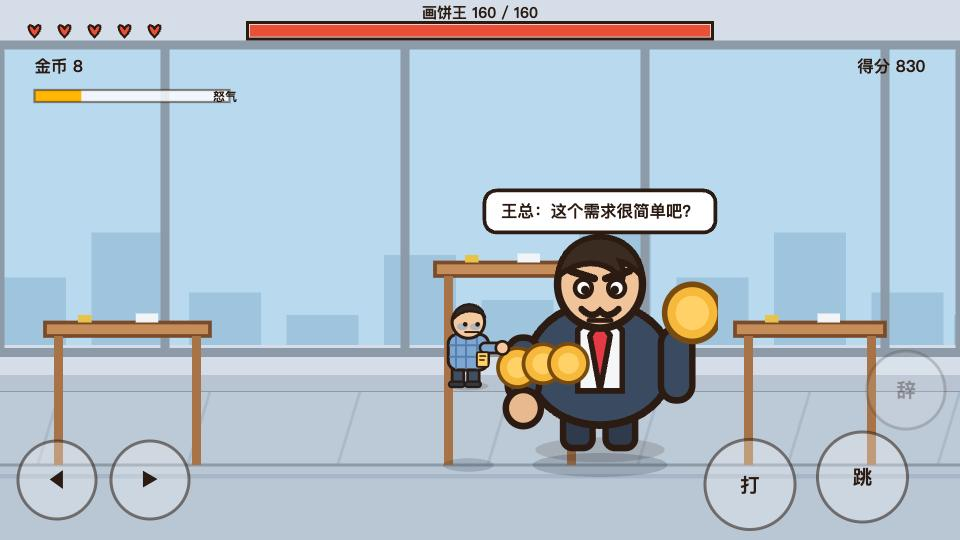
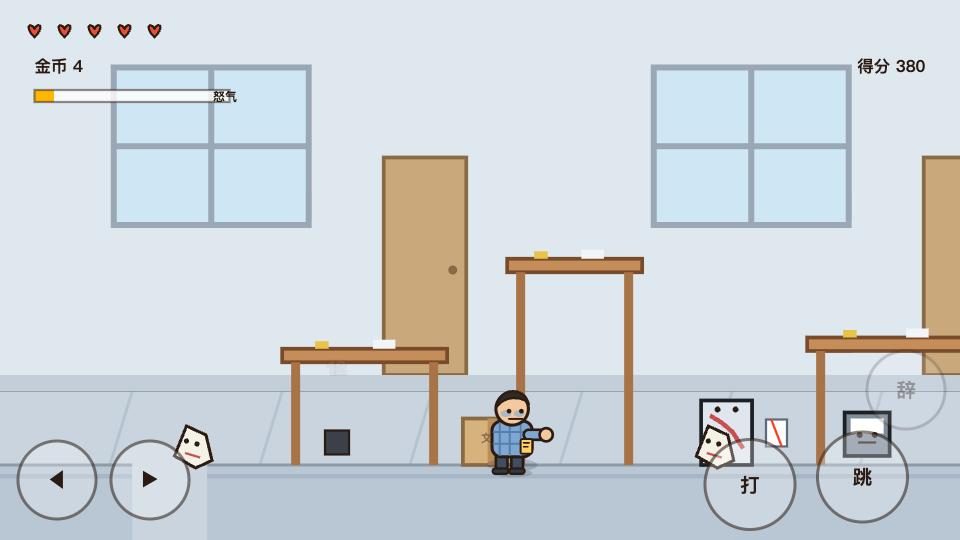
Publish 打Boss

diff --git a/daboss/index.html b/daboss/index.html
@@ -71,6 +71,15 @@
     ['meeting', 2780], ['kpi', 3180], ['paper', 3380], ['meeting', 3860], ['kpi', 4140],
     ['paper', 4460], ['phone', 4780], ['kpi', 4980]
   ];
+  var OBJ_DEFS = [
+    { type: 'cabinet', x: 760, y: GROUND_Y, w: 72, h: 150 },
+    { type: 'printer', x: 1500, y: GROUND_Y, w: 92, h: 74 },
+    { type: 'box', x: 2280, y: GROUND_Y, w: 78, h: 62 },
+    { type: 'cabinet', x: 3060, y: GROUND_Y, w: 72, h: 150 },
+    { type: 'printer', x: 4180, y: GROUND_Y, w: 92, h: 74 },
+    { type: 'box', x: 4700, y: GROUND_Y, w: 78, h: 62 },
+    { type: 'printer', x: 5600, y: GROUND_Y, w: 92, h: 74 }
+  ];
   var BOSS_X = 6120;
   var ARENA_LEFT = 5200;
 
@@ -81,6 +90,8 @@
   var rage = 0, score = 0, coins = 0, combo = 0, comboT = 0, bestCombo = 0;
   var enemies = [], items = [], shots = [], parts = [], floats = [];
   var boss = null;
+  var objects = [];
+  var corpses = [];
   var bossActive = false;
   var camLock = false;
   var shake = 0, flash = 0, slow = 0, hurtFlash = 0;
@@ -229,6 +240,90 @@
     else if (type === 'kpi') { e.hp = 6; e.w = 70; e.h = 86; e.speed = 95; }
     enemies.push(e);
   }
+  function objHitTest(x, y, r) {
+    for (var i = 0; i < objects.length; i++) {
+      var o = objects[i];
+      if (o.dead) continue;
+      if (Math.abs(x - o.x) < o.w / 2 + (r || 30) && y > o.y - o.h - 20 && y < o.y + 20) return o;
+    }
+    return null;
+  }
+
+  function triggerObj(o, depth) {
+    if (!o || o.dead) return;
+    o.dead = true;
+    o.hp = 0;
+    depth = depth || 0;
+    var i;
+    if (o.type === 'cabinet') {
+      // 文件柜倒下，砸一片
+      for (i = 0; i < enemies.length; i++) {
+        var e = enemies[i];
+        if (!e.dead && Math.abs(e.x - o.x) < 210) damageEnemy(e, 2, e.x < o.x ? -1 : 1);
+      }
+      for (i = 0; i < 18; i++) addPart(o.x, o.y - o.h / 2, '#c9a87c', 18, 380);
+      addFloat(o.x, o.y - o.h - 20, '文件柜倒了！', '#ffcf3f', 28);
+      shake = Math.max(shake, 0.4);
+      score += 30;
+    } else if (o.type === 'printer') {
+      // 打印机喷纸风暴
+      for (i = 0; i < enemies.length; i++) {
+        var e2 = enemies[i];
+        if (!e2.dead && Math.abs(e2.x - o.x) < 260) damageEnemy(e2, 2, e2.x < o.x ? -1 : 1);
+      }
+      for (i = 0; i < 22; i++) addPart(o.x, o.y - 40, '#ffffff', 22, 460);
+      addFloat(o.x, o.y - o.h - 30, '纸！纸！纸！', '#ffcf3f', 28);
+      shake = Math.max(shake, 0.35);
+      score += 40;
+    } else {
+      // 文件箱爆金币
+      for (i = 0; i < 7; i++) spawnCoin(o.x + rand(-50, 50), o.y - 40);
+      addFloat(o.x, o.y - o.h - 20, '加班费！', '#ffd166', 28);
+      score += 20;
+    }
+    sfx.kill();
+    // 连锁：附近的物件跟着倒
+    if (depth < 4) {
+      for (i = 0; i < objects.length; i++) {
+        var n = objects[i];
+        if (n.dead || n === o) continue;
+        if (Math.abs(n.x - o.x) < 300) n.chain = 0.18 + depth * 0.12;
+      }
+    }
+  }
+
+  function updateObjects(dt) {
+    for (var i = 0; i < objects.length; i++) {
+      var o = objects[i];
+      if (o.dead) { if (o.tilt < 1.2) o.tilt = Math.min(1.2, o.tilt + dt * 4); continue; }
+      if (o.chain > 0) {
+        o.chain -= dt;
+        if (o.chain <= 0) triggerObj(o, 1);
+      }
+    }
+    // 飞出去的小怪撞击
+    for (var c = corpses.length - 1; c >= 0; c--) {
+      var k = corpses[c];
+      k.life -= dt;
+      k.vy += 1400 * dt;
+      k.x += k.vx * dt; k.y += k.vy * dt; k.rot += dt * 8;
+      var hit = objHitTest(k.x, k.y, 34);
+      if (hit) {
+        triggerObj(hit, 0);
+        corpses.splice(c, 1);
+        continue;
+      }
+      for (var j = 0; j < enemies.length; j++) {
+        var en = enemies[j];
+        if (!en.dead && Math.abs(en.x - k.x) < 50 && Math.abs(en.y - 40 - k.y) < 70) {
+          damageEnemy(en, 2, k.vx > 0 ? 1 : -1);
+          break;
+        }
+      }
+      if (k.life <= 0 || k.x < cam.x - 200 || k.x > cam.x + 1500) corpses.splice(c, 1);
+    }
+  }
+
   function spawnCoin(x, y) { items.push({ type: 'coin', x: x, y: y, vy: rand(-320, -180), vx: rand(-90, 90), age: 0, life: 12 }); }
   function spawnCoffee(x, y) { items.push({ type: 'coffee', x: x, y: y, vy: rand(-300, -160), vx: rand(-80, 80), age: 0, life: 14 }); }
 
@@ -249,7 +344,11 @@
     hero.facing = 1; hero.invuln = 0; hero.attackCd = 0; hero.swing = 0;
     hearts = R.hearts; rage = 0; score = 0; coins = 0; combo = 0; comboT = 0; bestCombo = 0;
     enemies = []; items = []; shots = []; parts = []; floats = [];
-    boss = { x: BOSS_X, y: GROUND_Y, hp: R.bossHp, maxHp: R.bossHp, stage: 1, hurt: 0, shield: R.shieldHp, shieldMax: R.shieldHp, atkT: 2.2, state: 'shield', rolling: 0, wob: 0, dead: false, fly: 0 };
+    boss = { x: BOSS_X, y: GROUND_Y, hp: R.bossHp, maxHp: R.bossHp, stage: 1, hurt: 0, shield: R.shieldHp, shieldMax: R.shieldHp, atkT: 2.2, state: 'shield', rolling: 0, wob: 0, dead: false, fly: 0, stagger: 0 };
+    objects = OBJ_DEFS.map(function (o) {
+      return { type: o.type, x: o.x, y: o.y, w: o.w, h: o.h, hp: 2, dead: false, timer: -1, tilt: 0, chain: 0 };
+    });
+    corpses = [];
     bossActive = false; camLock = false; doorT = 0;
     shake = 0; flash = 0; slow = 0; hurtFlash = 0; elapsed = 0; restartGuard = 0;
     ultActive = 0; ultDone = false; taunt = ''; tauntT = 0;
@@ -308,6 +407,7 @@
       stats.kills++;
       score += 50;
       addPart(e.x, e.y - e.h / 2, '#e8e2d4', 14, 420);
+      corpses.push({ x: e.x, y: e.y - 30, vx: (hero.facing || 1) * 520, vy: -260, type: e.type, life: 1.6, rot: 0 });
       spawnCoin(e.x, e.y - 40);
       if (Math.random() < 0.22) spawnCoffee(e.x + 10, e.y - 50);
       sfx.kill();
@@ -328,6 +428,7 @@
       }
       return;
     }
+    if (boss.stagger > 0) dmg = Math.round(dmg * 2);
     boss.hp = Math.max(0, boss.hp - dmg);
     boss.hurt = 0.16;
     rage = Math.min(R.rageMax, rage + 1.5);
@@ -346,6 +447,7 @@
   function bossDie() {
     boss.dead = true;
     boss.fly = 0.01;
+    boss.boxX = boss.x;
     slow = 0.9; flash = 0.5; shake = 0.6;
     score += 500;
     addFloat(boss.x, boss.y - 240, '砰！', '#ffcf3f', 64);
@@ -383,7 +485,19 @@
     hurtFlash = 0.5; shake = 0.35;
     addPart(hero.x, hero.y - 50, '#ff8a6e', 10, 300);
     sfx.hurt();
-    if (hearts <= 0) { hearts = 0; endGame(false); }
+    if (hearts <= 0) {
+      if (bossActive) {
+        // v2.1：老板战就地重试，不重跑前面两段
+        hearts = 2;
+        hero.x = ARENA_LEFT + 160; hero.y = GROUND_Y - 200; hero.vx = 0; hero.vy = 0;
+        hero.invuln = 2.2;
+        boss.shield = boss.shieldMax; boss.state = 'shield'; boss.atkT = 2.2; boss.stagger = 0;
+        addFloat(hero.x, hero.y - 120, '再来一次！', '#ffd166', 34);
+        say('王总：怎么又来了？', 1.6);
+        return;
+      }
+      hearts = 0; endGame(false);
+    }
   }
 
   /* ---------- 12. 更新 ---------- */
@@ -432,14 +546,15 @@
     if (hero.onGround) hero.coyote = 0.1; else hero.coyote = Math.max(0, (hero.coyote || 0) - dt);
     if (hero.onGround && wasAir) addPart(hero.x, hero.y, '#c9d4df', 4, 120);
 
-    // 坑
+    // 坑：v2.1 低挫败 —— 不扣血，弹回附近平台，只掉一点金币
     if (hero.y > GROUND_Y + 150) {
-      hearts -= 1; hurtFlash = 0.5;
-      if (hearts <= 0) { hearts = 0; endGame(false); return; }
       var seg = segAt(hero.x) || nearestSeg(hero.x);
-      hero.x = seg[0] + 60; hero.y = GROUND_Y - 120; hero.vy = 0; hero.vx = 0; hero.invuln = 1.4;
-      addFloat(hero.x, hero.y - 80, '掉下去了', '#ffb3a7', 24);
-      if (hearts <= 0) endGame(false);
+      var lost = Math.min(coins, 3);
+      coins -= lost;
+      hero.x = seg[0] + clamp(hero.x - seg[0], 60, (seg[1] - seg[0]) - 60);
+      hero.y = GROUND_Y - 140; hero.vy = 0; hero.vx = 0; hero.invuln = 1.6;
+      addFloat(hero.x, hero.y - 80, lost > 0 ? '被弹回来了 -' + lost + '金币' : '被弹回来了', '#9ae6b4', 24);
+      hurtFlash = 0.25;
     }
 
     // 边界
@@ -531,8 +646,8 @@
 
     if (boss.fly > 0) {
       boss.fly += dt;
-      boss.x += 900 * dt;
-      boss.y -= 500 * dt;
+      boss.x += (boss.boxX - boss.x) * Math.min(1, 6 * dt);
+      boss.y += ((GROUND_Y - 40) - boss.y) * Math.min(1, 4 * dt);
       if (boss.fly > 1.4 && phase === 'playing') endGame(true);
       return;
     }
@@ -549,6 +664,11 @@
       return;
     }
 
+    if (boss.stagger > 0) {
+      boss.stagger -= dt;
+      boss.wob += dt * 3;
+      return;
+    }
     boss.atkT -= dt;
     if (boss.atkT <= 0) {
       boss.atkT = boss.stage === 1 ? 2.4 : (boss.stage === 2 ? 2.0 : 1.6);
@@ -605,10 +725,28 @@
         hurtHero(s.x, 1);
         if (s.type !== 'roll') { shots.splice(i, 1); continue; }
       }
-      // 打碎飞来的饼/文件
+      // 拍回飞来的饼/文件：反弹回去打老板，并打出破防
       var box = attackBox();
-      if (hero.swing > 0 && s.x > box.x1 - s.r && s.x < box.x2 + s.r && s.y > box.y1 && s.y < box.y2) {
-        if (s.type !== 'roll') { addPart(s.x, s.y, '#ffd166', 8, 260); shots.splice(i, 1); score += 5; continue; }
+      if (hero.swing > 0 && s.type !== 'roll' && s.type !== 'reflected' &&
+          s.x > box.x1 - s.r && s.x < box.x2 + s.r && s.y > box.y1 && s.y < box.y2) {
+        s.type = 'reflected';
+        s.vx = -s.vx * 1.5;
+        s.vy = -Math.abs(s.vy) * 0.7 - 60;
+        addPart(s.x, s.y, '#ffd166', 10, 300);
+        addFloat(s.x, s.y - 20, '拍回去！', '#ffcf3f', 26);
+        score += 15;
+        sfx.hit();
+        continue;
+      }
+      // 反弹物命中老板
+      if (s.type === 'reflected' && bossActive && boss && !boss.dead &&
+          Math.abs(s.x - boss.x) < 150 && s.y < boss.y - 60 && s.y > boss.y - 330) {
+        boss.shield = 0;
+        boss.stagger = Math.max(boss.stagger || 0, 2.6);
+        damageBoss(30);
+        addFloat(boss.x, boss.y - 260, '破防！', '#ff3b1f', 40);
+        shots.splice(i, 1);
+        continue;
       }
     }
   }
@@ -805,6 +943,70 @@
     }
   }
 
+  function drawObjects() {
+    for (var i = 0; i < objects.length; i++) {
+      var o = objects[i];
+      var x = o.x - cam.x;
+      if (x < -160 || x > 1440) continue;
+      ctx.save();
+      ctx.translate(x, o.y);
+      if (o.dead) ctx.rotate(-o.tilt * 0.9);
+      if (o.type === 'cabinet') {
+        ctx.fillStyle = '#b9a58a';
+        ctx.strokeStyle = '#6b5a44';
+        ctx.lineWidth = 5;
+        ctx.fillRect(-36, -o.h, 72, o.h);
+        ctx.strokeRect(-36, -o.h, 72, o.h);
+        ctx.fillStyle = '#a08c71';
+        for (var d = 0; d < 3; d++) ctx.fillRect(-28, -o.h + 12 + d * 46, 56, 36);
+        ctx.fillStyle = '#5c4d3b';
+        ctx.fillRect(-6, -o.h + 28, 12, 6);
+        ctx.fillRect(-6, -o.h + 74, 12, 6);
+        ctx.fillRect(-6, -o.h + 120, 12, 6);
+      } else if (o.type === 'printer') {
+        ctx.fillStyle = '#c7d0da';
+        ctx.strokeStyle = '#6f7d8c';
+        ctx.lineWidth = 5;
+        ctx.fillRect(-46, -o.h, 92, o.h);
+        ctx.strokeRect(-46, -o.h, 92, o.h);
+        ctx.fillStyle = '#eef3f8';
+        ctx.fillRect(-32, -o.h - 18, 64, 20);
+        ctx.strokeRect(-32, -o.h - 18, 64, 20);
+        ctx.fillStyle = '#ffcf3f';
+        ctx.beginPath(); ctx.arc(30, -o.h + 20, 7, 0, TAU); ctx.fill();
+      } else {
+        ctx.fillStyle = '#d8b27c';
+        ctx.strokeStyle = '#8a6a44';
+        ctx.lineWidth = 5;
+        ctx.fillRect(-39, -o.h, 78, o.h);
+        ctx.strokeRect(-39, -o.h, 78, o.h);
+        ctx.fillStyle = '#b98f5c';
+        ctx.fillRect(-6, -o.h, 12, o.h);
+        ctx.fillStyle = '#8a6a44';
+        ctx.font = 'bold 15px "PingFang SC", sans-serif';
+        ctx.textAlign = 'center';
+        ctx.fillText('文件', 0, -o.h / 2);
+      }
+      ctx.restore();
+    }
+  }
+
+  function drawCorpses() {
+    for (var i = 0; i < corpses.length; i++) {
+      var k = corpses[i];
+      var x = k.x - cam.x;
+      ctx.save();
+      ctx.translate(x, k.y);
+      ctx.rotate(k.rot);
+      ctx.fillStyle = k.type === 'phone' ? '#3c4048' : '#f4f1e6';
+      ctx.strokeStyle = '#2b1b12';
+      ctx.lineWidth = 3;
+      ctx.fillRect(-16, -16, 32, 32);
+      ctx.strokeRect(-16, -16, 32, 32);
+      ctx.restore();
+    }
+  }
+
   function drawHero() {
     var x = hero.x - cam.x;
     var blink = hero.invuln > 0 && Math.floor(hero.invuln * 12) % 2 === 0;
@@ -920,7 +1122,7 @@
     ctx.translate(x, boss.y - 10);
     ctx.scale(wob, 2 - wob);
     if (boss.hurt > 0) ctx.translate(rand(-5, 5), 0);
-    sprite('enemy', 0, -150, 320);
+    sprite('enemy', 0, -150, 320 * (boss.dead ? Math.max(0.1, 1 - boss.fly) : 1));
     ctx.restore();
 
     // 大饼盾
@@ -945,6 +1147,39 @@
       ctx.rotate(0.6);
       ctx.fillStyle = '#3b2c22';
       ctx.beginPath(); ctx.ellipse(0, 0, 40, 18, 0, 0, TAU); ctx.fill();
+      ctx.restore();
+    }
+
+    // 破防
+    if (boss.stagger > 0 && !boss.dead) {
+      ctx.save();
+      ctx.translate(x, boss.y - 300);
+      ctx.rotate(Math.sin(elapsed * 12) * 0.12);
+      ctx.fillStyle = '#ff3b1f';
+      ctx.strokeStyle = '#2b1b12';
+      ctx.lineWidth = 6;
+      ctx.font = 'bold 44px "PingFang SC", sans-serif';
+      ctx.textAlign = 'center';
+      ctx.strokeText('破防！', 0, 0);
+      ctx.fillText('破防！', 0, 0);
+      ctx.restore();
+    }
+
+    // 纸箱结尾：王总被弹进「明天再说」箱
+    if (boss.dead) {
+      var bx = (boss.boxX || boss.x) - cam.x, by = GROUND_Y;
+      ctx.save();
+      ctx.fillStyle = '#d8b27c';
+      ctx.strokeStyle = '#8a6a44';
+      ctx.lineWidth = 5;
+      ctx.fillRect(bx - 70, by - 96, 140, 96);
+      ctx.strokeRect(bx - 70, by - 96, 140, 96);
+      ctx.fillStyle = '#b98f5c';
+      ctx.fillRect(bx - 12, by - 96, 24, 96);
+      ctx.fillStyle = '#5c4d3b';
+      ctx.font = 'bold 20px "PingFang SC", sans-serif';
+      ctx.textAlign = 'center';
+      ctx.fillText('明天再说', bx, by - 52);
       ctx.restore();
     }
 
@@ -1200,11 +1435,13 @@
     bg();
     drawGround();
     drawPlatforms();
+    drawObjects();
     drawItems();
     var i;
     for (i = 0; i < enemies.length; i++) drawEnemy(enemies[i]);
     drawBoss();
     drawShots();
+    drawCorpses();
     drawHero();
     drawFx();
 
